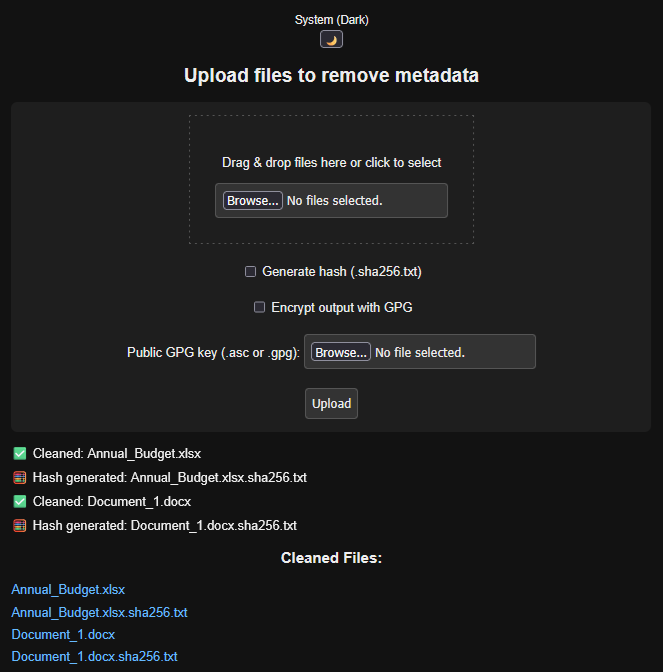
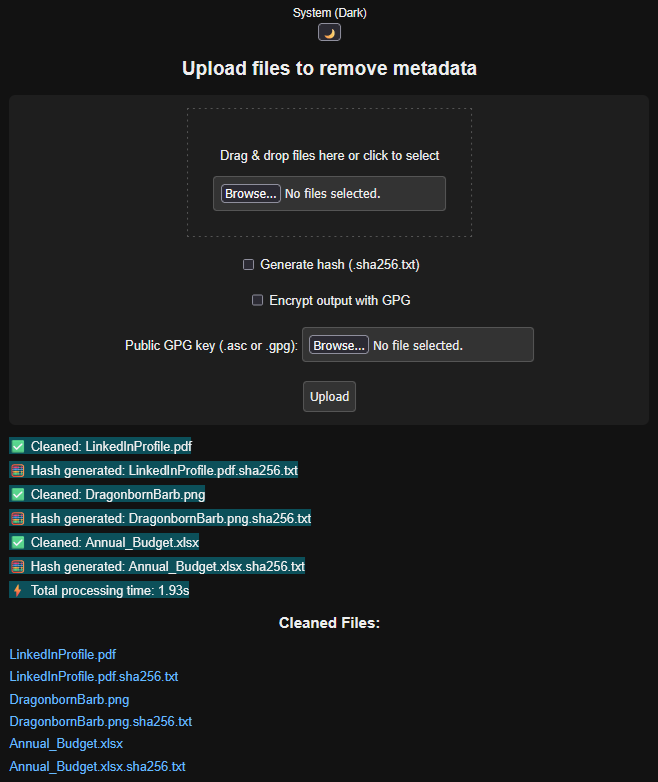
fix: update metadata scrub timing & Docker tag lowercase

diff --git a/app.py b/app.py
@@ -3,6 +3,7 @@ import shutil
 import tempfile
 import threading
 import logging
+import time  # ⬅️ Added for timing
 from flask import Flask, request, send_from_directory, render_template
 from werkzeug.utils import secure_filename
 from dotenv import load_dotenv
@@ -53,8 +54,11 @@ def upload_file():
     messages = []
     cleaned_files = []
     session_id = None
+    processing_time = None  # ⬅️ Initialize to avoid UnboundLocalError
 
     if request.method == "POST":
+        start_time = time.perf_counter()  # ⬅️ Start timing
+
         files = request.files.getlist("file")
         session_dir = tempfile.mkdtemp(prefix="session_", dir=SESSIONS_ROOT)
         session_id = os.path.basename(session_dir)
@@ -110,6 +114,11 @@ def upload_file():
                 except Exception as e:
                     messages.append(f"❌ GPG encryption failed for {filename}: {e}")
 
+        # Total processing time
+        elapsed = time.perf_counter() - start_time
+        processing_time = f"{elapsed:.2f}s"
+        messages.append(f"⚡ Total processing time: {processing_time}")
+
         # Start background cleanup for this session folder
         schedule_cleanup(session_dir)
 
@@ -122,6 +131,7 @@ def upload_file():
         session=session_id,
         accept=accept_list,
         enable_gpg=ENABLE_GPG_ENCRYPTION,
+        processing_time=processing_time  # ⬅️ Safely passed to template
     )
 
 # Route: Serve individual download links